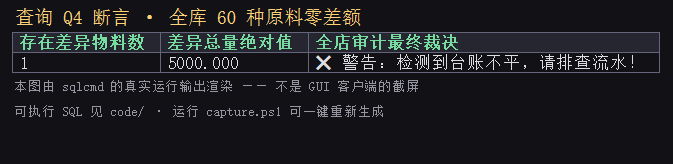
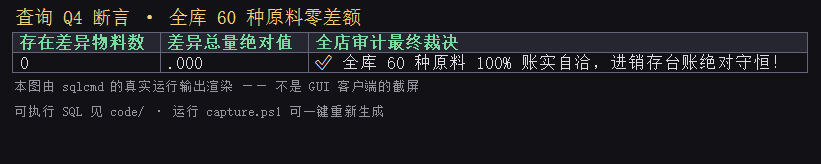
fix(review): 修复演示原料台账不平与证据污染，修正代码快照死链并刷新结果证据

diff --git a/project/sql/02-constraints/README.md b/project/sql/02-constraints/README.md
@@ -1,0 +1,41 @@
+# 02-constraints · 数据库完整性约束
+
+> **课程要求**：主外键/检查约束 `constraint.sql`，包含合法数据成功、非法数据失败的验证用例。
+
+---
+
+## 一、约束体系概览
+
+本目录脚本 `constraints.sql` 定义了全库全部完整性约束（一键重建中自动执行）：
+
+| 类型 | 数量 | 作用 | 命名规范 |
+|---|---:|---|---|
+| **候选码 UNIQUE** | **17** | 业务编码唯一性（含 6 组复合候选码） | `uq_<table>_<column>` |
+| **CHECK 约束** | **43** | 业务域约束（13）、非负/大于0/非零（25）、跨列/逻辑一致性（5） | `ck_<table>_<column>` |
+| **外键 FOREIGN KEY** | **30** | 引用完整性（实体关联与父子单据） | `fk_<table>_<ref_table>` |
+
+---
+
+## 二、合法成功与非法拒绝验证（正反例用例）
+
+为保证空库一键重建脚本的纯净性，**正反例执行用例统一组织于演示与测试脚本中**：
+
+1. **合法数据成功用例（正例）**：
+   - 随 `04-seed/seed_data.sql` 装载 20,979 行基准数据（全部通过约束校验）；
+   - 在 `05-dml/crud.sql` §1.1—§1.6 中演示合法新增员工、会员、券、成品、开单、反冲扣料、收货等全部成功执行。
+2. **非法数据拒绝用例（负例）**：
+   - 集中集成于 [`05-dml/crud.sql`](../05-dml/crud.sql) **§1.7 节**，包含 5 类典型非法操作并全部由 `TRY...CATCH` 捕获断言：
+     - **负例 1（非负 CHECK）**：原料库存为负数 → 被 `ck_ingredient_qty_on_hand` 拦截；
+     - **负例 2（枚举 CHECK）**：员工岗位填非法值 → 被 `ck_employee_position` 拦截；
+     - **负例 3（外键 FK）**：配方引用不存在商品 → 被 `fk_recipe_product` 拦截；
+     - **负例 4（候选码 UNIQUE）**：会员编号重复 → 被 `uq_member_code` 拦截；
+     - **负例 5（跨列 CHECK）**：流水判别列与外键冲突 → 被 `ck_stock_ledger_ref_consistency` 拦截。
+
+---
+
+## 三、实测证据索引
+
+对应证据截图及控制台原始输出位于：
+- **`weeks/submissions/v0.1/result/03-invalid/neg-1.png` ~ `neg-5.png`**（各负例独立拦截证据）
+- **`weeks/submissions/v0.1/result/03-invalid/neg-all-five.png`**（5 组负例汇总证据）
+

diff --git a/weeks/submissions/v0.1/code/02-constraints/README.md b/weeks/submissions/v0.1/code/02-constraints/README.md
@@ -1,0 +1,41 @@
+# 02-constraints · 数据库完整性约束
+
+> **课程要求**：主外键/检查约束 `constraint.sql`，包含合法数据成功、非法数据失败的验证用例。
+
+---
+
+## 一、约束体系概览
+
+本目录脚本 `constraints.sql` 定义了全库全部完整性约束（一键重建中自动执行）：
+
+| 类型 | 数量 | 作用 | 命名规范 |
+|---|---:|---|---|
+| **候选码 UNIQUE** | **17** | 业务编码唯一性（含 6 组复合候选码） | `uq_<table>_<column>` |
+| **CHECK 约束** | **43** | 业务域约束（13）、非负/大于0/非零（25）、跨列/逻辑一致性（5） | `ck_<table>_<column>` |
+| **外键 FOREIGN KEY** | **30** | 引用完整性（实体关联与父子单据） | `fk_<table>_<ref_table>` |
+
+---
+
+## 二、合法成功与非法拒绝验证（正反例用例）
+
+为保证空库一键重建脚本的纯净性，**正反例执行用例统一组织于演示与测试脚本中**：
+
+1. **合法数据成功用例（正例）**：
+   - 随 `04-seed/seed_data.sql` 装载 20,979 行基准数据（全部通过约束校验）；
+   - 在 `05-dml/crud.sql` §1.1—§1.6 中演示合法新增员工、会员、券、成品、开单、反冲扣料、收货等全部成功执行。
+2. **非法数据拒绝用例（负例）**：
+   - 集中集成于 [`05-dml/crud.sql`](../05-dml/crud.sql) **§1.7 节**，包含 5 类典型非法操作并全部由 `TRY...CATCH` 捕获断言：
+     - **负例 1（非负 CHECK）**：原料库存为负数 → 被 `ck_ingredient_qty_on_hand` 拦截；
+     - **负例 2（枚举 CHECK）**：员工岗位填非法值 → 被 `ck_employee_position` 拦截；
+     - **负例 3（外键 FK）**：配方引用不存在商品 → 被 `fk_recipe_product` 拦截；
+     - **负例 4（候选码 UNIQUE）**：会员编号重复 → 被 `uq_member_code` 拦截；
+     - **负例 5（跨列 CHECK）**：流水判别列与外键冲突 → 被 `ck_stock_ledger_ref_consistency` 拦截。
+
+---
+
+## 三、实测证据索引
+
+对应证据截图及控制台原始输出位于：
+- **`result/03-invalid/neg-1.png` ~ `neg-5.png`**（各负例独立拦截证据）
+- **`result/03-invalid/neg-all-five.png`**（5 组负例汇总证据）
+

diff --git a/weeks/submissions/v0.1/code/README.md b/weeks/submissions/v0.1/code/README.md
@@ -22,13 +22,18 @@
 ## 怎么跑
 
 ```powershell
-# 全库重建（唯一入口）—— ⚠ 必须先 cd 到 project\sql
+# 全库重建（唯一入口）—— ⚠ 必须先 cd 到当前脚本所在目录
+# 方案 A（完整仓库）：
 cd project\sql
+sqlcmd -S .\SQLEXPRESS -E -C -f 65001 -i 99-rebuild.sql
+
+# 方案 B（v0.1 独立提交快照）：
+cd weeks\submissions\v0.1\code
 sqlcmd -S .\SQLEXPRESS -E -C -f 65001 -i 99-rebuild.sql
 ```
 
 > ⚠ **`99-rebuild.sql` 里用的是 sqlcmd 的 `:r` 指令，它相对【当前工作目录】解析，不是相对脚本目录。**
-> 从仓库根直接跑会报"找不到 `.\00-bootstrap\...`"。
+> 从仓库根目录直接跑会报"找不到 `.\00-bootstrap\...`"，必须先 `cd` 进脚本目录。
 
 | 项 | 值 |
 |---|---|
@@ -44,9 +49,9 @@ sqlcmd -S .\SQLEXPRESS -E -C -f 65001 -i 99-rebuild.sql
 3. 脚本必须**可重复执行**（幂等），或显式声明不可重跑
 4. 新增脚本后，在上表登记
 5. ⚠ **含中文的 `.sql` 必须存为「UTF-8 带 BOM」** —— 否则 `sqlcmd` 会**静默失效**
-   （无报错，但一行都不生效）。详见 [`02-sql-style.md`](../../harness/conventions/02-sql-style.md) §9
-   · **备选（不改文件）**：运行时加 `-f 65001` 显式指定输入编码
-     `sqlcmd -S .\SQLEXPRESS -E -f 65001 -i 99-rebuild.sql`
+   （无报错，但一行都不生效）。详见 [`02-sql-style.md`](../../../../harness/conventions/02-sql-style.md) §9
+   - **备选（不改文件）**：运行时加 `-C -f 65001` 显式指定输入编码
+     `sqlcmd -S .\SQLEXPRESS -E -C -f 65001 -i 99-rebuild.sql`
 6. ⚠ **日志前缀用 `【建库】` 而不是 `[建库]`** —— `sqlcmd` 会吃掉半角方括号
 
-编写风格见 `harness/conventions/02-sql-style.md`。
+编写风格见 [`02-sql-style.md`](../../../../harness/conventions/02-sql-style.md)。
